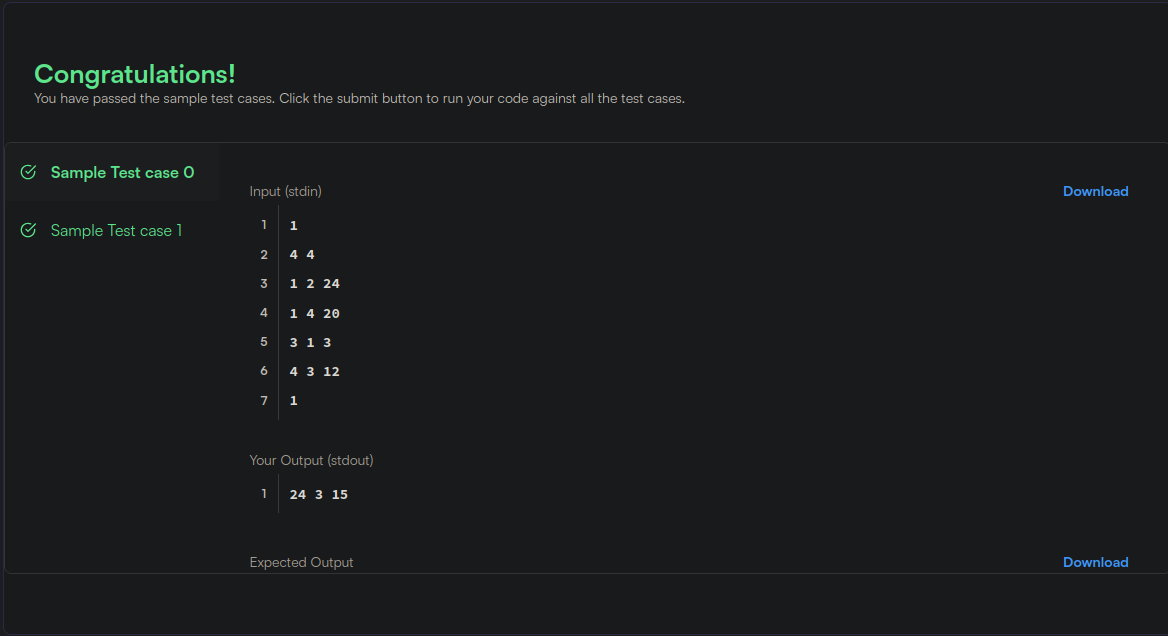
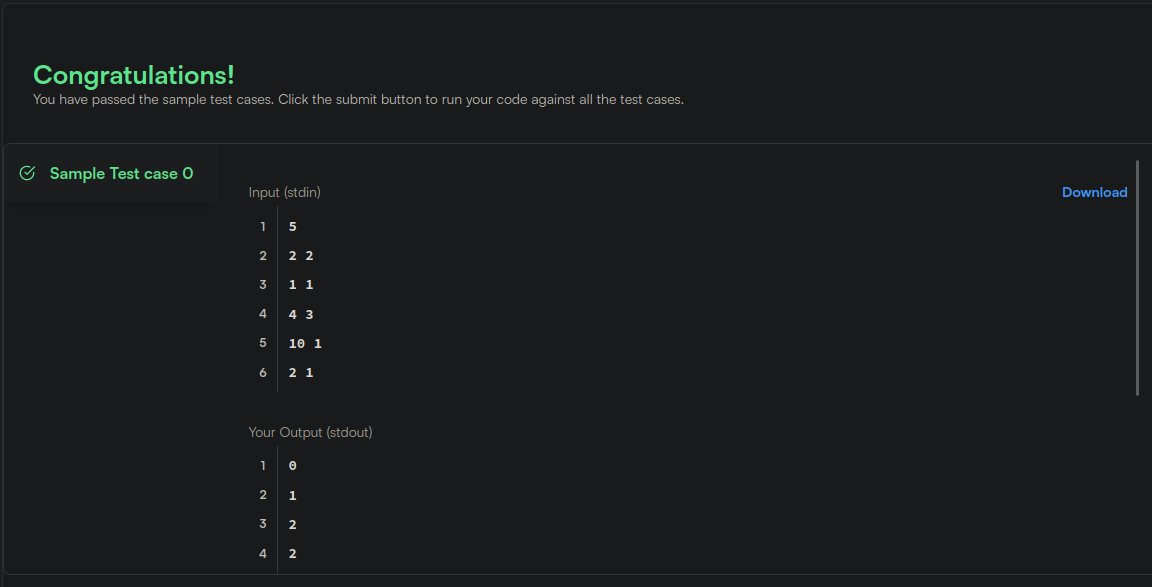
update

diff --git a/AlgoritmosAmbiciosos/dificeis/Questions/QuestaoDificil1.py b/AlgoritmosAmbiciosos/dificeis/Questions/QuestaoDificil1.py
@@ -1,46 +1,79 @@
 import sys
-import heapq
-
-def shortest_reach(n, edges, s):
-    INF = float('inf')
-    adj = [dict() for _ in range(n + 1)]
-    for u, v, w in edges:
-        if v not in adj[u] or adj[u][v] > w:
-            adj[u][v] = w
-            adj[v][u] = w
-
-    dist = [INF] * (n + 1)
-    visited = [False] * (n + 1)
-    dist[s] = 0
-
-    heap = [(0, s)]
-    while heap:
-        d_u, u = heapq.heappop(heap)
-        if visited[u]:
-            continue
-        visited[u] = True
-
-        for v, w_uv in adj[u].items():
-            if not visited[v]:
-                nd = d_u + w_uv
-                if nd < dist[v]:
-                    dist[v] = nd
-                    heapq.heappush(heap, (nd, v))
-
-    return [
-        -1 if dist[i] == INF else dist[i]
-        for i in range(1, n + 1) if i != s
-    ]
+import threading
 
 def main():
-    input = sys.stdin.readline
-    t = int(input())
-    for _ in range(t):
-        n, m = map(int, input().split())
-        edges = [tuple(map(int, input().split())) for _ in range(m)]
-        s = int(input())
-        ans = shortest_reach(n, edges, s)
-        print(*ans)
+    data = sys.stdin.read().split()
+    if not data:
+        return
+
+    it = iter(data)
+    T = int(next(it))
+    jobs = []
+    max_d = 0
+
+    for _ in range(T):
+        d = int(next(it))
+        m = int(next(it))
+        jobs.append((d, m))
+        if d > max_d:
+            max_d = d
+
+    size = 1
+    while size < max_d:
+        size <<= 1
+
+    N = size
+    INF = 10**18
+
+    tree_sum  = [0] * (2 * N)
+    tree_moff = [0] * (2 * N)
+
+    for i in range(N):
+        pos = N + i
+        if i < max_d:
+            d = i + 1
+            tree_sum[pos] = 0
+            tree_moff[pos] = -d
+        else:
+            tree_sum[pos] = 0
+            tree_moff[pos] = -INF
+
+    for pos in range(N - 1, 0, -1):
+        lc = pos << 1
+        rc = lc | 1
+        s_left = tree_sum[lc]
+        s_right = tree_sum[rc]
+        tree_sum[pos] = s_left + s_right
+        mo_left  = tree_moff[lc]
+        mo_right = tree_moff[rc]
+        tree_moff[pos] = mo_left if (mo_left >= mo_right + s_left) else (mo_right + s_left)
+
+    out = []
+    for (d, m) in jobs:
+        pos = N + (d - 1)
+        tree_sum[pos] += m
+        tree_moff[pos] = tree_sum[pos] - d
+
+        pos >>= 1
+        while pos:
+            lc = pos << 1
+            rc = lc | 1
+            s_left = tree_sum[lc]
+            s_right = tree_sum[rc]
+            tree_sum[pos] = s_left + s_right
+
+            mo_left  = tree_moff[lc]
+            mo_right = tree_moff[rc]
+            tree_moff[pos] = mo_left if (mo_left >= mo_right + s_left) else (mo_right + s_left)
+            pos >>= 1
+
+        lateness = tree_moff[1]
+        if lateness < 0:
+            lateness = 0
+        out.append(str(lateness))
+
+    sys.stdout.write("\n".join(out))
+
 
 if __name__ == "__main__":
-    main()
+    threading.Thread(target=main).start()

diff --git a/AlgoritmosAmbiciosos/media/Question/QuestaoMedia1.py b/AlgoritmosAmbiciosos/media/Question/QuestaoMedia1.py
@@ -5,31 +5,40 @@ def main():
     data = sys.stdin.read().strip().split()
     if not data:
         return
+
     it = iter(data)
     s = int(next(it))
     respostas = []
+
     for _ in range(s):
         n = int(next(it))
         intervals = []
+
         for i in range(n):
             a = int(next(it))
             b = int(next(it))
             intervals.append((a, b, i))
+
         events = []
         for (a, b, idx) in intervals:
             events.append((a,  1, idx, b))
             events.append((b, -1, idx, b))
+
         events.sort(key=lambda x: (x[0], -x[1]))
+
         selected = [False] * n
         active   = [False] * n
+
         heap = []
         active_count = 0
+
         for (time, typ, idx, end_time) in events:
             if typ == 1:
                 active[idx] = True
                 selected[idx] = True
                 active_count += 1
                 heapq.heappush(heap, (-end_time, idx))
+
                 if active_count > 2:
                     while heap:
                         neg_b, j = heapq.heappop(heap)
@@ -41,8 +50,11 @@ def main():
                 if selected[idx]:
                     active_count -= 1
                 active[idx] = False
+
         resultado = sum(selected)
         respostas.append(str(resultado))
+
     sys.stdout.write("\n".join(respostas))
+
 if __name__ == "__main__":
     main()

diff --git a/README.md b/README.md
@@ -26,16 +26,12 @@ Este projeto consiste na resolução de questões da plataforma HackerRank varia
             <td>Médio 01</td>
         </tr>
         <tr>
-            <td><a href="https://www.hackerrank.com/challenges/dijkstrashortreach/problem" target="_blank">Dijkstra: Shortest Reach 2</td>
+            <td><a href="https://www.hackerrank.com/challenges/task-scheduling/problem" target="_blank">Task Scheduling</td>
             <td>Difícil 01</td>
         </tr>
         <tr>
             <td><a href="https://www.hackerrank.com/challenges/floyd-city-of-blinding-lights/problem?isFullScreen=true" target="_blank">Floyd City of Blinding Lights</td>
             <td>Difícil 02</td>
-        </tr>
-        <tr>
-            <td><a href="https://www.hackerrank.com/challenges/minimum-mst-graph/problem?isFullScreen=true" target="_blank">Minimum MST Graph</td>
-            <td>Difícil 03</td>
         </tr>
     </tbody>
 </table>
@@ -117,20 +113,20 @@ Entrar na plataforma [HackerRank](https://www.hackerrank.com/dashboard), procura
 <div align="center">
 
 <div align="center">
-  <font size="4"><p style="text-align: center; margin-bottom: 50px;"><b>Figura 4: Resultados questão média HackerRank Special Subtree</b></p></font>
+  <font size="4"><p style="text-align: center; margin-bottom: 50px;"><b>Figura 4: Resultados questão alta HackerRank Task Scheduling</b></p></font>
 </div>
 
 <div align="center">
-<img src="Assets/QuestaoMedia1_case0_1.png" alt="inicial" style=" max-width: 50%; height: auto; margin-bottom: 20px;">
+<img src="Assets/QuestaoDificil1_case0_1" alt="inicial" style=" max-width: 50%; height: auto; margin-bottom: 20px;">
 </div>
 <div align="center">
 
 <div align="center">
-  <font size="4"><p style="text-align: center; margin-bottom: 50px;"><b>Figura 5: Resultados questão média HackerRank Special Subtree</b></p></font>
+  <font size="4"><p style="text-align: center; margin-bottom: 50px;"><b>Figura 5: Resultados questão alta HackerRank Task Scheduling</b></p></font>
 </div>
 
 <div align="center">
-<img src="Assets/QuestaoMedia1_case0_2.png" alt="inicial" style=" max-width: 50%; height: auto; margin-bottom: 20px;">
+<img src="Assets/QuestaoDificil1_case0_2" alt="inicial" style=" max-width: 50%; height: auto; margin-bottom: 20px;">
 </div>
 <div align="center">
 

diff --git a/AlgoritmosAmbiciosos/dificeis/QuestaoDificil1.md b/AlgoritmosAmbiciosos/dificeis/QuestaoDificil1.md
@@ -1,6 +1,6 @@
-## Dijkstra: Shortest Reach 2
+## Task Scheduling
 
-https://www.hackerrank.com/challenges/dijkstrashortreach/problem
+https://www.hackerrank.com/challenges/task-scheduling/problem
 
 # Nível da questão: <span style="color: red;">Difícil</span>
 
@@ -9,5 +9,3 @@ https://www.hackerrank.com/challenges/dijkstrashortreach/problem
 ![](/Assets/QuestaoDificil1_case0_1.png)
 
 ![](/Assets/QuestaoDificil1_case0_2.png)
-
-![](/Assets/QuestaoDificil1_case1_1.png)

diff --git a/AlgoritmosAmbiciosos/media/QuestaoMedia1.md b/AlgoritmosAmbiciosos/media/QuestaoMedia1.md
@@ -1,6 +1,6 @@
-## Prim's (MST) : Special Subtree
+## Interval Selection
 
-https://www.hackerrank.com/challenges/primsmstsub/problem
+https://www.hackerrank.com/challenges/interval-selection/problem
 
 # Nível da questão: <span style="color: red;">Média</span>
 
